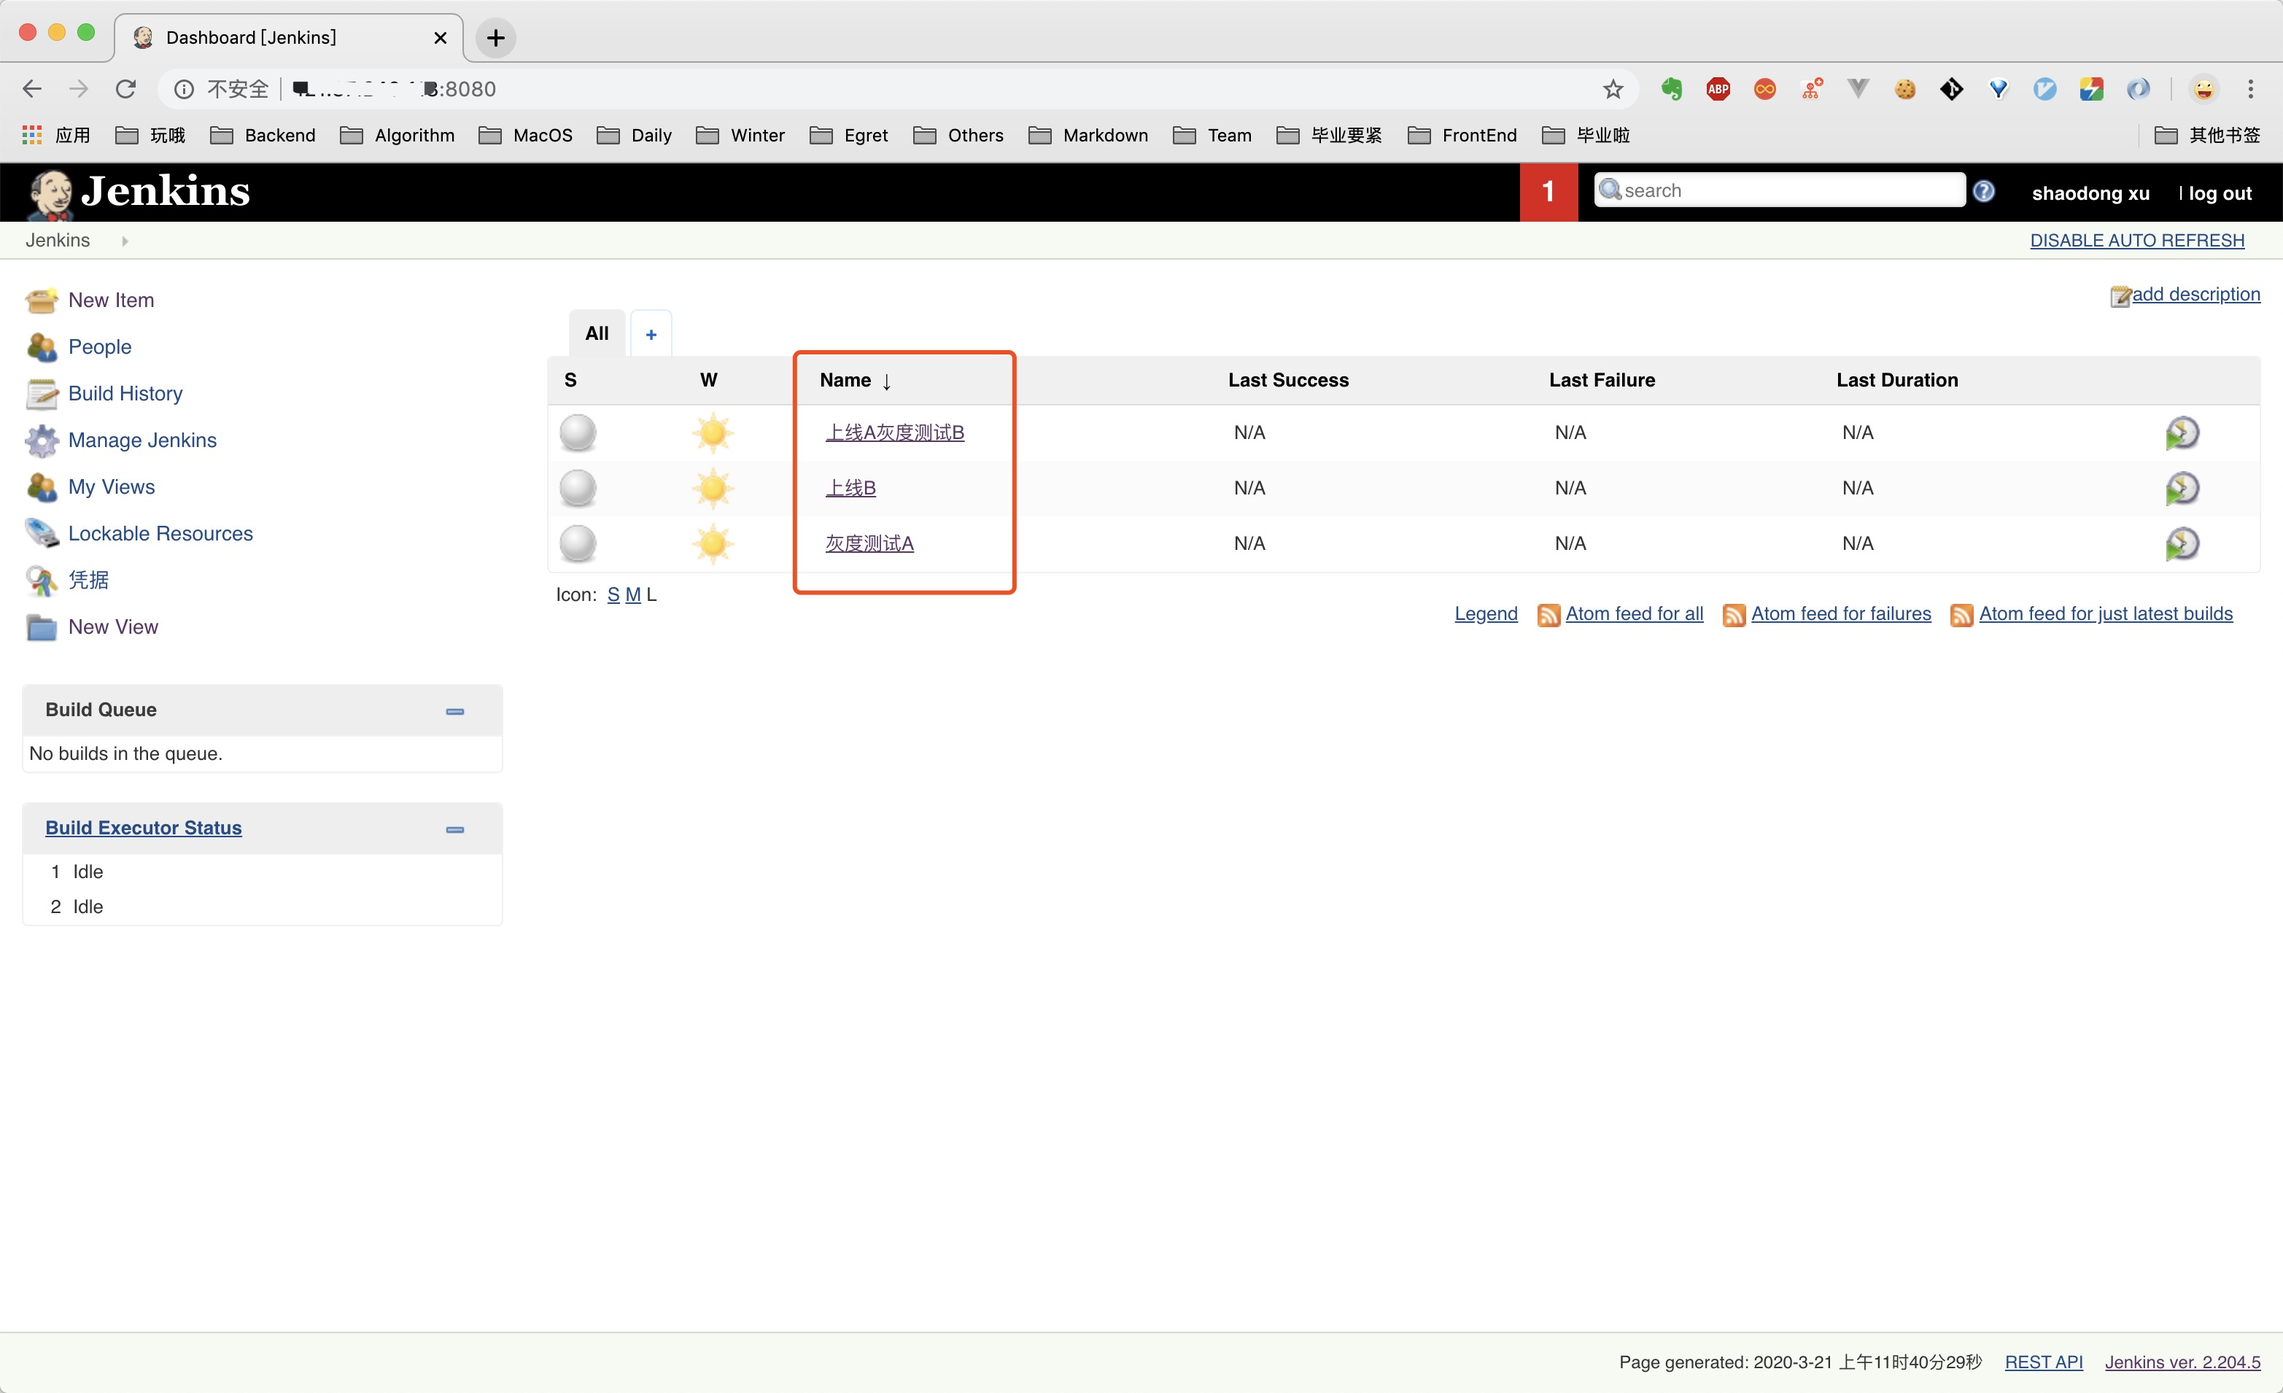
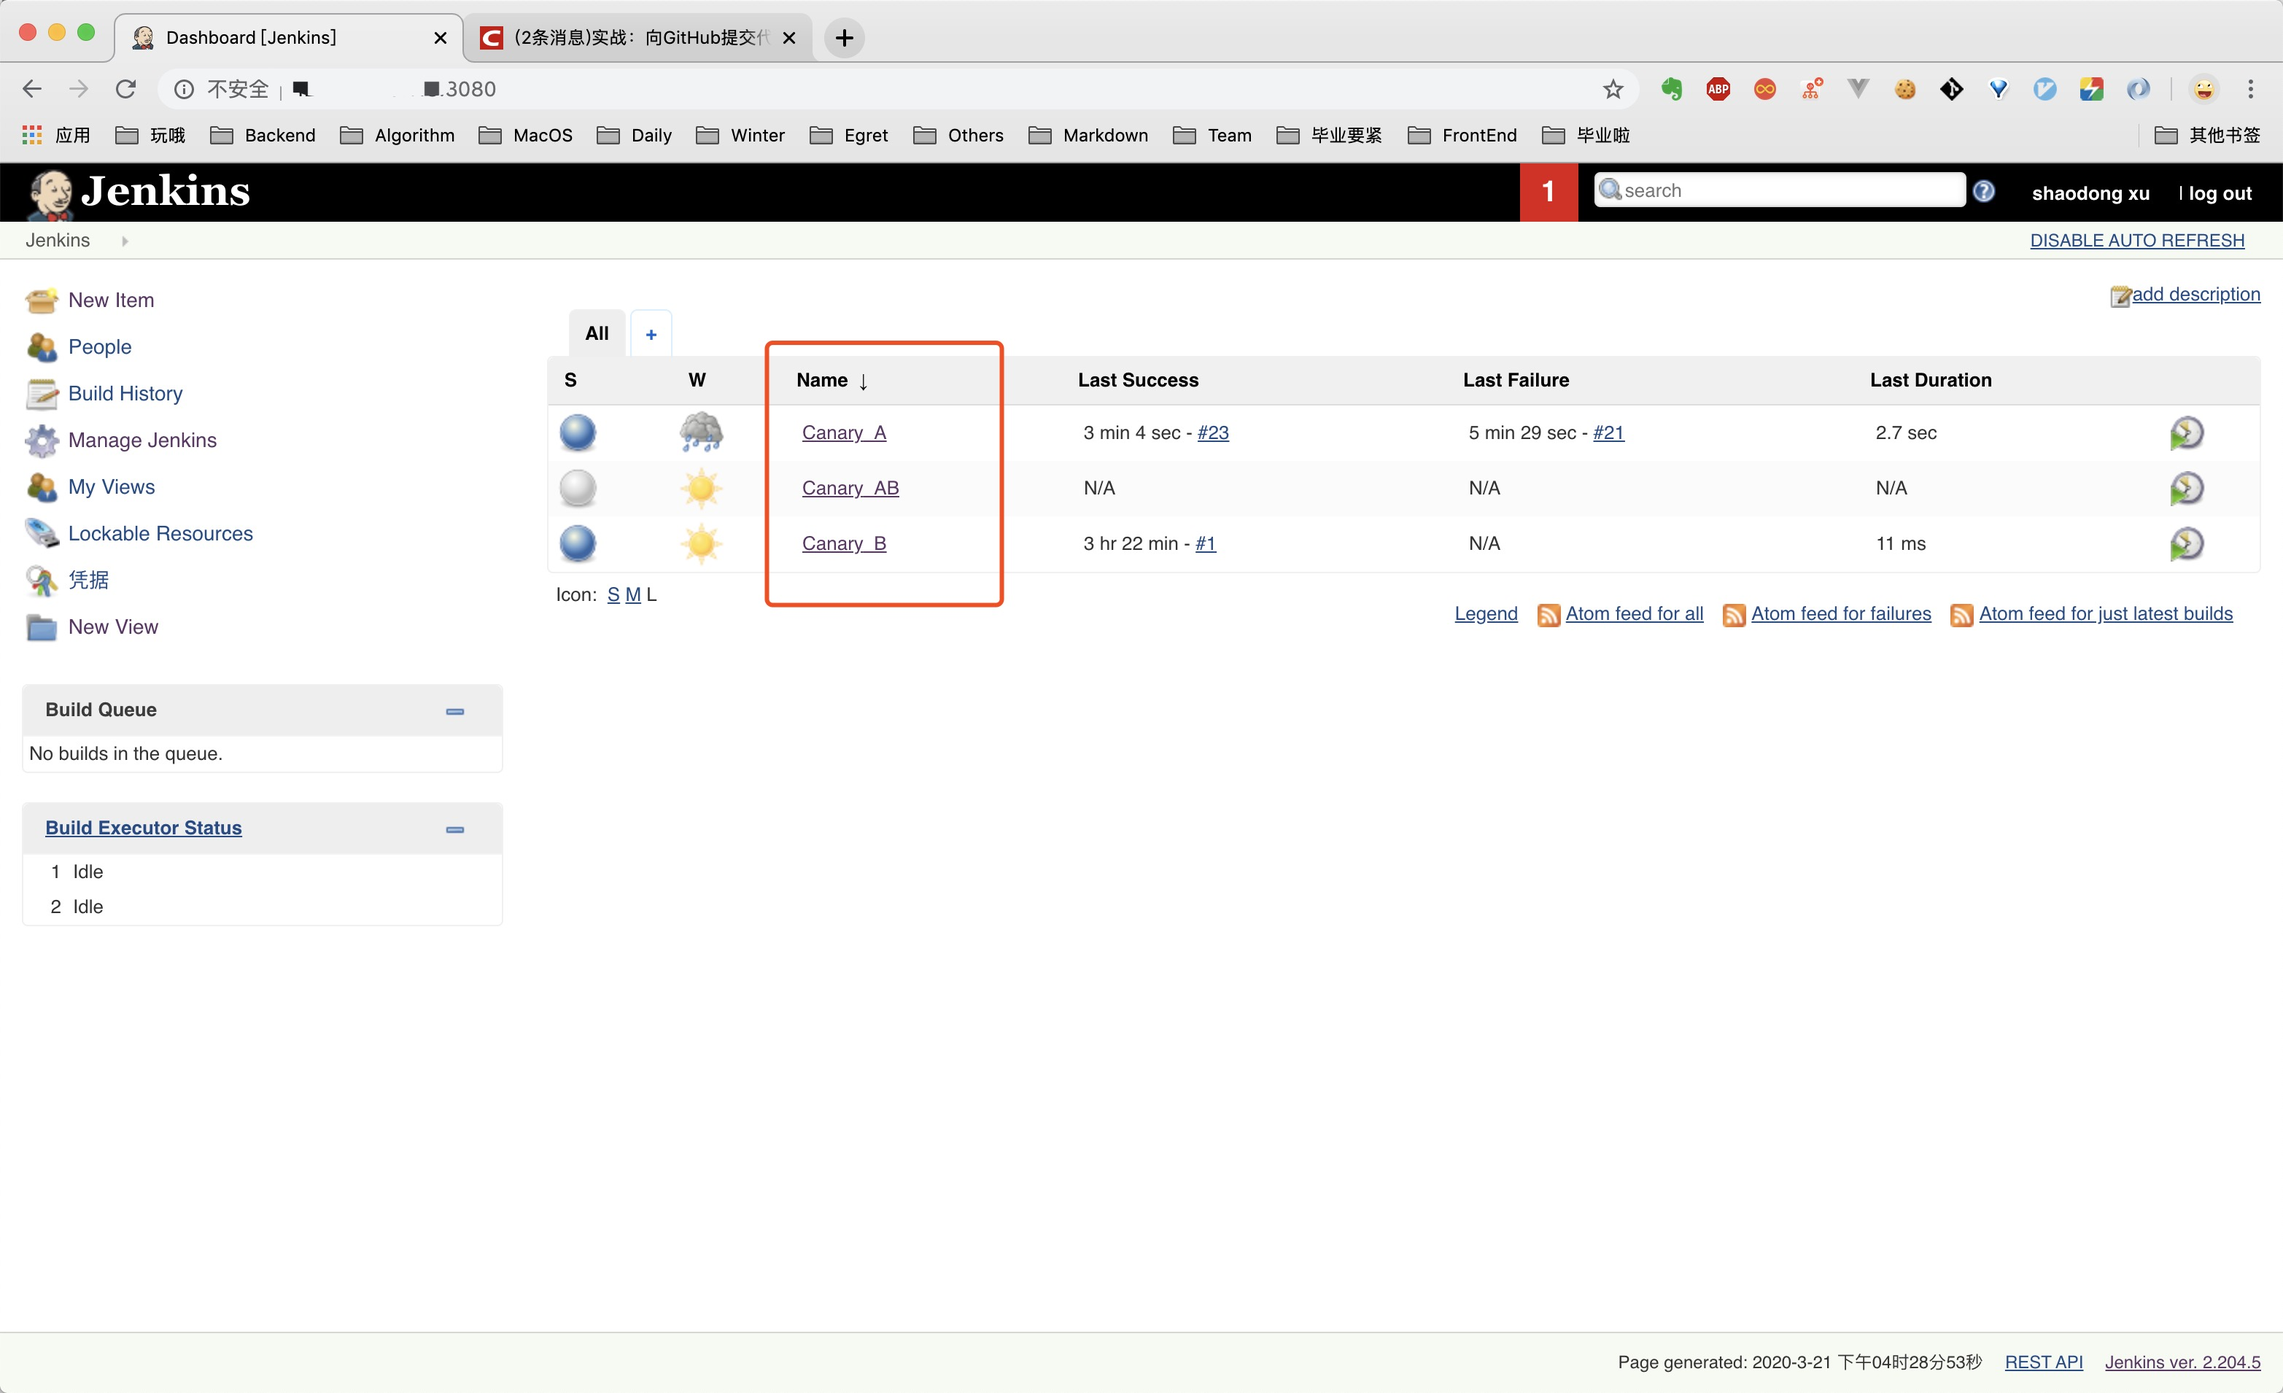
finish grey

diff --git a/从零搭建一个灰度发布环境.md b/从零搭建一个灰度发布环境.md
@@ -22,21 +22,153 @@
 
 ### 工具安装
 #### Git
+首先，确保你的服务器上已经安装了git，如果没有的话使用以下命令进行安装，安装好了以后生成ssh 公钥，放到你的github 里，后面拉取代码的时候会用到。
 ```
 yum install git
 ```
 #### Nginx
+如果你的服务器没有Nginx，先按照以下操作进行安装，Linux 下安装Nginx非常简单：
+```
+sudo yum install nginx
+```
+安装完了，在终端输入nginx -t检查一下是否安装成功。如果安装成功，它会显示Nginx 配置文件的状态，以及位置。
 
-#### Jenkins
+![nginx-t](./img/nginx-t.png)
 
+此时nginx还没有启动，在终端中输入`nginx` 或`nginx -s reload` 命令即可启动，此时看到的nginx相关进程如下，表明已经启动成功。
+
+![nginx-reload](./img/nginx-reload.png)
+
+在浏览器里访问你的服务器公网IP，如果能看到下面的页面说明Nginx 可以正常工作。
+
+![nginx-html](./img/nginx-html.jpg)
+
+#### Jenkins (耗时比较久)
+第一次接触Jenkins 可能会有很多疑问，Jenkins 是什么？能完成什么事情？我为什么要使用Jenkins 等诸如此类。很难讲清楚Jenkins 是什么东西，所以这里简单介绍一下Jenkins 可以做什么。简单来讲，你在任何一台服务器上进行的任何操作命令，Jenkins 都可以帮你完成，只要你提前在Jenkins上创建好任务，指定任务内容和触发时机，比如定时触发或者在特定的情况下触发。
+（1）安装
+Jenkins稳定版本list：http://pkg.jenkins-ci.org/redhat-stable/
+```
+// 科学上网会快一些，记得留意网站上java和jenkins版本匹配信息，别下错了
+wget http://pkg.jenkins-ci.org/redhat-stable/jenkins-2.204.5-1.1.noarch.rpm
+rpm -ivh jenkins-2.7.3-1.1.noarch.rpm
+```
+
+修改Jenkins端口，不冲突可不修改
+```
+// line 56 JENKINS_PORT
+vi /etc/sysconfig/jenkins
+```
+（2）启动
+启动jenkins
+```
+service jenkins start/stop/restart
+// 密码位置
+/var/lib/jenkins/secrets/initialAdminPassword
+```
+（3）访问
+访问服务器的8080端口，输入从上述位置获取的密码，点击继续
+![jenkins-login](./img/jenkins-login.jpg)
+
+创建一个账户然后登录
+![jenkins-account](./img/jenkins-account.jpg)
+
+看到Jenkins 已就绪的页面表示安装已经完成，服务器准备工作到此结束。
+![jenkins-start](./img/jenkins-start.jpg)
 
 ## 02 代码准备
 
 ### 准备两份代码
+因为要做灰度部署，所以需要准备两份不一样的代码，以验证我们实施的灰度操作是否生效。这里选择使用Angular 的Angular-CLI 来创建代码。创建的项目并不简洁，但是胜在操作简单。我们一次性把两份代码准备好，简化开发侧工作。
+```
+// 安装angular-cli，前提是已经安装了node，如果没有node真的要去自行百度了...
+npm install -g @angular/cli
+// 快速创建一个新项目，一路回车
+ng new canaryDemo
+cd canaryDemo
+// 运行完这个命令后访问http://localhost:4200 查看页面信息
+ng serve
+```
+访问localhost 的4200 端口查看页面，然后把项目根目录下src 中的index.html 的title 改成A-CanaryDemo，可以看到页面会进行实时地刷新。在这个例子中，我们用title 来标识灰度发布过程中两边不同的服务需要部署的代码。
 
-### 配置nginx
+![local-a-demo](./img/local-a-demo.jpg)
+
+接下来，我们进行两次打包，两次打包的title 分别为A-CanaryDemo 和 B-CanaryDemo，
+把这两个文件夹放好备用，作为一会灰度发布的新老代码。
+```
+ng build --prod
+```
+
+![jenkins-a-b](./img/jenkins-a-b.jpg)
+
+### 配置Nginx
+在上述完成Nginx 的安装操作时，我们访问服务器的IP 看到的是Nginx 的页面，现在我们想访问到自己的页面，首先把上面打包得到的A-CanaryDemo 发送到两台服务器上任意位置，这里我们把它放到/var/canaryDemo。
+```
+// 将A-CanaryDemo 文件夹复制到你的公网服务器上，xx部分是你的服务器公网ip
+scp -r ./dist/A-CanaryDemo root@xx.xx.xx.xx:/var/canaryDemo
+```
+
+去服务器上/var 的位置上看一下，是否已经有了这个文件，如果有了的话，接着到下一步。即修改Nginx 配置把访问该服务器IP 的请求转发到我们刚刚上传上来的页面上。上满提到过可以通过nginx -t 这个命令来查看Nginx 配置文件的位置，在这一步，我们要去编辑那个文件。
+```
+vi /etc/nginx/nginx.conf
+```
+修改47-50行添加下图相关的内容，即将访问到该服务器IP 的流量转发到/var/canaryDemo 下的index.html.
+![nginx-conf](./img/nginx-conf.png)
+
+修改完毕，保存退出，重启一下nginx
+```
+nginx -s reload
+```
+这时候去访问我们服务器的IP 地址可以看到页面已经变成了刚刚我们在本地改的页面，而且title 确实是A-CanaryDemo。两台服务器都操作完成后，两边都可以访问到title 为A-CanaryDemo 的页面。此时的状态相当于生产环境已经在提供稳定服务的两台机器。
+
+![a-demo](./img/a-demo.png)
 
 ## 03 定义灰度策略
+接下来，我们要开始进行灰度发布的部分，在进行相关操作之前，我们需要定义一个灰度策略，即满足什么情况下的流量会走到灰度边，而其他流量走向正常边。这里为了简单起见，我们使用名字为canary 的cookie 来区分，如果检测到这个cookie 的值为devui，就访问灰度边机器，否则就访问正常边机器。按照此规则配置Nginx 结果如下：
+```
+# Canary Deployment
+map $COOKIE_canary $group {
+    # canary account
+    ~*devui$ server_canary;
+    default server_default;
+}
+
+upstream server_canary {
+    # 两台机器的IP
+    server x.x.x.x  weight=1 max_fails=1 fail_timeout=30s;
+    server x.x.x.x weight=1 max_fails=1 fail_timeout=30s;
+}
+
+upstream server_default {
+    server x.x.x.x weight=1 max_fails=1 fail_timeout=30s;
+    server x.x.x.x weight=1 max_fails=1 fail_timeout=30s;
+}
+
+server {
+    listen       80 default_server;
+    listen       [::]:80 default_server;
+    server_name  _;
+    # root         /usr/share/nginx/html;
+    root         /var/canaryDemo;
+
+    # Load configuration files for the default server block.
+    include /etc/nginx/default.d/*.conf;
+
+    location / {
+        proxy_pass http://$group;
+        # root /var/canaryDemo;
+        # index index.html;
+    }
+
+    error_page 404 /404.html;
+        location = /40x.html {
+    }
+
+    error_page 500 502 503 504 /50x.html;
+        location = /50x.html {
+    }
+}
+```
+此时，灰度流量和正常流量都会随机分配到AB两边的机器。下面，我们通过建立Jenkins 任务执行Nginx 文件修改的方式实现灰度发布。
 
 ## 04 完成灰度发布
 

diff --git a/HuaWeiCloudServer.md b/HuaWeiCloudServer.md
@@ -28,67 +28,10 @@ https://console.huaweicloud.com/ecm/?region=cn-east-2#/ecs/createVm
 点击购买后，可以再次点击弹出框按钮跳转到到控制台主界面。此时不需要付费，但是最好先充几十块钱进去，否则过一个多小时就会因为欠费而关机。在控制台这里，稍微等一会，可以看到已经有了两台服务器，并且都配备了公网地址。
 ![console](./img/console.png)
 
-### 搭建服务器环境
 #### 登录服务器
-可以在华为云控制台点击远程登录连接，或者在本地使用终端工具连接，我比较倾向于使用后一种办法。先测试一下看看两台服务器能否正常连接。
+可以在华为云控制台点击远程登录连接，或者在本地使用终端工具连接，我比较倾向于使用后一种办法。先测试一下看看两台服务器能否正常连接，确认无误后购买云服务器环节结束。
 ![login](./img/login.jpg)
 
-#### 安装Nginx
-先选择一台服务器，开始安装Nginx，CentOS 8.0下安装Nginx非常简单：
-```
-sudo yum install nginx
-```
-安装完了，在终端输入nginx -t检查一下是否安装成功。如果安装成功，它会显示nginx配置文件的状态，以及位置。
-
-![nginx-t](./img/nginx-t.png)
-
-此时nginx还没有启动，在终端中输入nginx或nginx -s reload命令即可启动，此时看到的nginx相关进程如下，表明已经启动成功。
-
-![nginx-reload](./img/nginx-reload.png)
-
-在浏览器里访问你的服务器公网ip，如果能看到下面的页面说明nginx真的启动成功。
-
-![nginx-html](./img/nginx-html.jpg)
-
-### 本地准备代码
-因为要做灰度部署，所以需要准备两份不一样的代码，以验证我们实施的灰度操作是否生效。这里选择使用angular的angular-cli来创建代码。创建的项目并不简洁，但是胜在操作简单.
-```
-// 安装angular-cli，前提是已经安装了node，如果没有node真的要去自行百度了...
-npm install -g @angular/cli
-// 快速创建一个新项目，一路回车
-ng new canaryDemo
-cd canaryDemo
-// 运行完这个命令后访问http://localhost:4200 查看页面信息
-ng serve
-```
-访问localhost的4200端口查看页面，然后把项目根目录下src中的index.html的title改成A-CanaryDemo，可以看到页面会进行实时地刷新。我们用title 来标识灰度发布过程中两边不同的服务需要部署的代码。
-
-![local-a-demo](./img/local-a-demo.jpg)
-
-接下来对代码打包并，打包之后，根目录的dist目录下多了项目同名的文件夹，把这个拷贝到我们刚刚申请的第一台，也就是我们安装了nginx的服务器上。
-```
-// 上面一步检查没问题，把项目打包一下，准备发送到服务器
-ng build --prod
-// 打包出来的文件会放在根目录下的dist下，将该文件夹复制到你的公网服务器上，xx部分是你的服务器公网ip
-scp -r ./dist/canaryDemo root@xx.xx.xx.xx:/var
-```
-
-#### 服务器更新配置
-先去服务器上/var 的位置上看一下，是否已经有了这个文件，如果有了的话，接着到下一步。
-即修改Nginx配置把访问该服务器IP的请求转发到我们刚刚上传上来的页面上。上满提到过可以通过nginx -t 这个命令来查看Nginx 配置文件的位置，在这一步，我们要去编辑那个文件。
-```
-vi /etc/nginx/nginx.conf
-```
-修改47-50行添加下图相关的内容，即将访问到该服务器IP 的流量转发到/var/canaryDemo 下的index.html.
-![nginx-conf.png](./img/nginx-conf.png)
-
-修改完毕，保存退出，重启一下nginx
-```
-nginx -s reload
-```
-这时候去访问我们服务器的IP 地址可以看到页面已经变成了刚刚我们在本地改的页面，而且title确实是A-CanaryDemo.
-
-![a-demo.png](./img/a-demo.png)
 
 #### 操作另一台服务器
 接着，我们现在把本地代码中的title 改成B-CanaryDemo，然后用同样的方法打包，并把打包结果发送到第二台服务器上，记得在第二台服务器上也安装配置Nginx，然后手动测试一下第二台服务器的网站能否访问成功。至此，服务器的购买和两个“版本”代码的服务器部署已经完成。

diff --git a/Jenkins.md b/Jenkins.md
@@ -48,7 +48,7 @@ service jenkins start/stop/restart
 ![jenkins-create](./img/jenkins-create.jpg)
 
 #### 创建任务
-先按照任务拆解部分的设定创建三个FreeStyle 类型的Jenkins 任务。任务详情信息可以不填，直接保存就好，下一步我们再来配置每个任务的具体信息。
+先按照任务拆解部分的设定创建三个FreeStyle 类型的Jenkins 任务，记得使用英文名字，中文名字后面建文件夹比较麻烦。任务详情信息可以不填，直接保存就好，下一步我们再来配置每个任务的具体信息。
 ![jenkins-free](./img/jenkins-free.jpg)
 
 #### 配置任务
@@ -56,10 +56,7 @@ service jenkins start/stop/restart
 
 ![jenkins-task-ok](./img/jenkins-task-ok.jpg)
 
-首先是灰度测试A
-![jenkins-a](./img/jenkins-a.jpg)
-
-灰度测试A要做的事情是下载最新代码到Jenkins 所在的服务器，然后修改流量分发策略（A 边机器的Nginx 配置），使得灰度流量访问A 边的最新代码，其余流量访问B 边的代码。
+首先是灰度测试A，灰度测试A要做的事情是下载最新代码到Jenkins 所在的服务器，然后修改流量分发策略（A 边机器的Nginx 配置），使得灰度流量访问A 边的最新代码，其余流量访问B 边的代码。
 
 现代前端项目都要进行构建打包这一步。但是廉价的1核2G的云服务器在完成构建方面有些力不从心，CPU 经常爆表。**所以我们在这里把打包出得出的生产包纳入git 管理，每次的代码更新会同步最新的生产包到github，因此Jenkins 任务把生产包拉下来，放在指定位置即可完成一次新代码的部署。**
 
@@ -67,15 +64,16 @@ service jenkins start/stop/restart
 
 ![jenkins-no-git](./img/jenkins-no-git.jpg)
 
-执行一次构建任务（第一次构建，在git fetch 那一步可能会耗费比较久的时间），然后点击本次构建进去查看Console 输出，可以确定执行Jenkins 任务的位置是位于服务器上的/var/lib/jenkins/workspace/your_task_name。
+执行一次构建任务（在git fetch 那一步耗时不稳定，有时比较久），然后点击本次构建进去查看Console 输出，可以确定执行Jenkins 任务的位置是位于服务器上的/var/lib/jenkins/workspace/your_task_name。
 
 ![jenkins-build](./img/jenkins-build.jpg)
 
 ![jenkins-loc](./img/jenkins-loc.jpg)
 
-继续编辑灰度测试A 任务，添加build shell，也就是每次任务执行时要执行的命令
+继续编辑灰度测试A 任务，添加build shell，也就是每次任务执行时要执行的命令：先拉取最新的代码，然后把代码根目录下的dist目录复制到部署代码的位置，这里我们指定的位置是/var/canaryDemo。这一步填写的shell 命令在使用jenkins 用户执行时可能会遇到权限问题，可以先用root 用户登录，把/var 目录的归属改为jenkins 用户.
 ```
 git pull
+rm -rf /var/canaryDemo
 scp -r dist /var/canaryDemo
 ```
 
